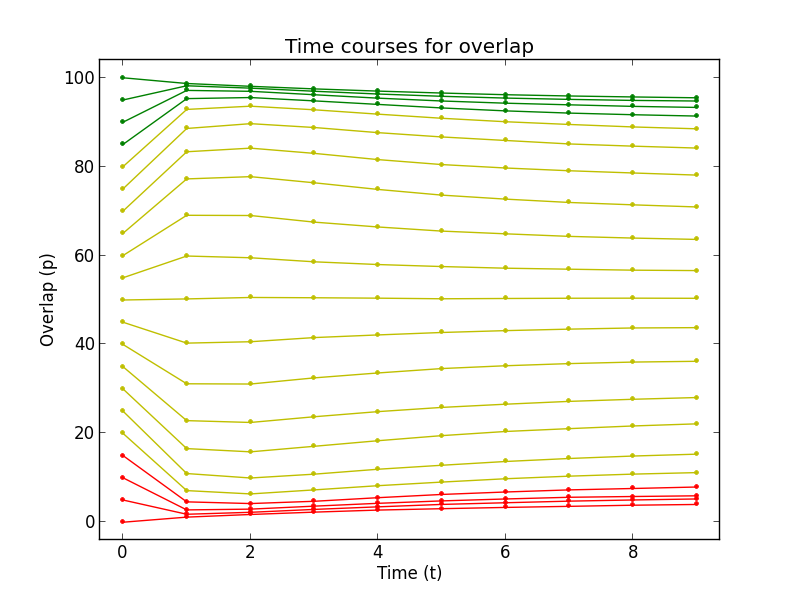
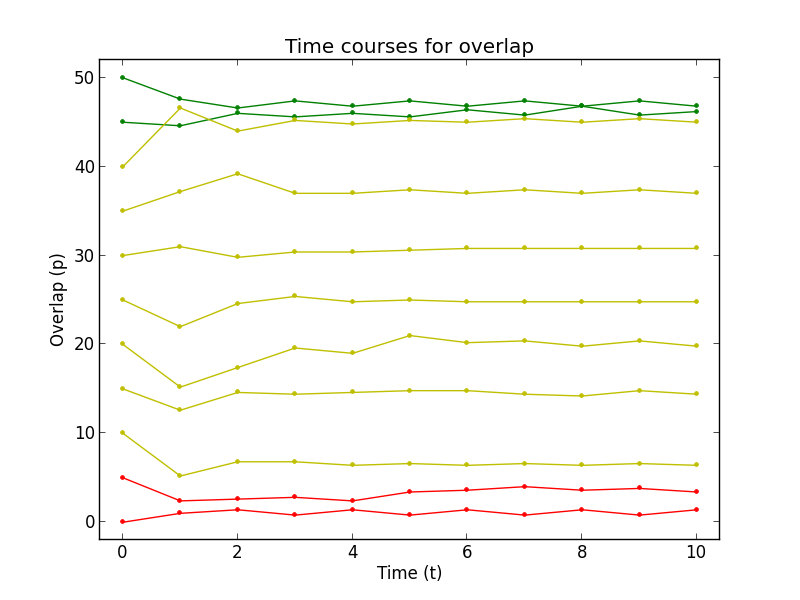
might have gotten part reverse working a little bit, but not great performance

diff --git a/python/network.py b/python/network.py
@@ -5,6 +5,7 @@
 
 import numpy as np
 import random as rand
+import math
 class Hopfield_Network(object):
 	'''
 	Meant to serve as a model of the hopefield associative memory
@@ -34,6 +35,7 @@ class Hopfield_Network(object):
 		self.num_memories += 1
 		#self.sum_outer_products() inefficient
 		self.weights += np.transpose(np.matrix(memory))*np.matrix(memory) - np.identity(self.n)
+
 
 	def remove(self, memory):
 		'''
@@ -115,70 +117,98 @@ class Hopfield_Network(object):
 
 		Tx = [np.sign(i) for i in (self.state_vector*self.weights).tolist()[0]]
 		Tx[Tx == 0] = 1
-		self.state_vector = np.array(Tx)[0]
+		self.state_vector = np.array(Tx)
 
-	def retrieve_partial_reverse(self, probe):
+	def retrieve_partial_reverse(self, probe,t,r):
 		'''
 		Utilizes update scheme described in Morita 1992 "Associative Memory with Nonmonotone Dynamics". The network alternates between traditional update
 		scheme using conventional dynamics (phase I) and an update to reduce probability of reaching spurious attractors interfering with search (phase II)
+		TODO: optimize
 		'''
 		#arbitrary paremeters h and lam(bda) are described in the paper. When internet available, look up constants in py
+		# h = 1+2.0*math.sqrt(r)
 		h = 1.9
+		print "h"+str(h)
 		lam = 2.7
 		self.state_vector = probe
-		print self.state_vector
-		print self.n
+		time_series = []
 		# test = 0
-		for i in range(10):
+		time_series.append(self.state_vector[:])
+		for i in range(t/2):
 
 			#Phase I:
 			# for i in range(self.n):
-			self.update_synch()
-			print self.state_vector
+			# self.update_synch()
+			
+			# print self.state_vector
 			#Phase II:
-			#this is an attempt to interpret tthe explicit version.
+
+			# #this is an attempt to interpret his "explicit" version
+			# #THIS WORKS... Kind of
+			
+			# u = [i for i in (self.state_vector*self.weights).tolist()[0]]
+			# v = [self.phi(i) for i in (self.state_vector*self.weights).tolist()[0]]
+
+			# for j in range(len(v)):
+			# 	v[j]  = v[j]*lam
+
+			# self.state_vector = np.array([np.sign(a_i - b_i) for a_i, b_i in zip(u, v)])
+			# time_series.append(self.state_vector[:])
+
+			#Phase II:
+			#this is an attempt to interpret his "explicit" version iteratively
+			#phase I
+			np.set_printoptions(threshold=np.inf)
+			u = [0]*self.n
+			v = [0]*self.n
 			for i in range(self.n):
-				v_i=0
 				for j in range(self.n):
-					u_j = (np.transpose(self.weights[j])*self.state_vector).sum()
-					# print u_j
-					v_i += (self.weights[i,j]*self.phi(u_j))			
-				u_i = (np.transpose(self.weights[i])*self.state_vector).sum()
-				
-				
-				# test+=self.weights[i,j]*self.state_vector[j]
-				self.state_vector[i]=int(np.sign(u_i - lam*v_i))
-				# if self.state_vector[i]==0:
-				# 	self.state_vector[i]=1
-			print self.state_vector
-		# print test
-		
+					u[i]+=self.weights[i,j]*self.state_vector[j]
+			
+			for i in range(self.n):
+				self.state_vector[i]=np.sign(u[i])
+			# time_series.append(self.state_vector[:])
+			#phase II
+			for i in range(self.n):
+				for j in range(self.n):
+					u[i]+=self.weights[i,j]*self.state_vector[j]
+			for i in range(self.n):
+				for j in range(self.n):
+
+					v[i]+=self.weights[i,j]*self.phi(u[j])
+
+			# print u
+			# print v
+			for i in range(self.n):
+				# print u[i]-lam*v[i]
+				if(not( (float(u[i])/v[i] ) >0 and (float(u[i])/v[i]) < lam)):
+					# print "true"
+					self.state_vector[i]=self.state_vector[i]*-1
+				# else:
+					# print "false"
+				# self.state_vector[i]=np.sign(u[i]-lam*v[i])
+				# print u[i]/v[i]
+
+			#Phase II:
 			#this is an attempt to interpret his "abbreviated" version
-			# for i in range(self.n):
-			# 	# influence = self.weights*(self.state_vector - lam*[self.phi(j) for j in np.transpose(self.weights[i])*self.state_vector])
-				
-			# 	influence = np.transpose(self.weights[i])*self.state_vector
-			# 	# print influence
-			# 	# print influence[1,1]
-			# 	for i in range(self.n):
-			# 		for j in range(self.n):
-			# 			influence[i,j]=self.phi(influence.item((i,j)))
-			# 	x_t_1 = self.weights[i]*(self.state_vector -lam*influence)
-			# 	self.state_vector[i]=int(np.sign(x_t_1.sum()))
-			# 	if self.state_vector[i]==0:
-			# 		# print "uh oh"
-			# 		self.state_vector[i]=1
-			# 	print self.state_vector
-	
+			# temp = np.array((self.mult_state(self.weights,(self.state_vector-[lam*i for i in [self.phi(i) for i in (self.mult_state(self.weights,self.state_vector))]]))))
+			# self.state_vector = np.array([np.sign(i) for i in temp])
+			# time_series.append(self.state_vector[:])
+
+			time_series.append(self.state_vector[:])
+		return time_series
 	#should make static I think
 	def phi(self,u):
 		#arbitrary paremeters h and lam(bda) are described in the paper
 		h = 1.9
 		lam = 2.7
-		
-		if (u<(h*-1)):
-			return -1
-		elif(((-1)*h<=u) and (u<=h)):
+		# print u
+		if(abs(u)>h):
+			return np.sign(u)
+		else:
 			return 0
-		else: #u>h
-			return 1
+
+	def mult_state(self,weights,state):
+		tstate = [[i] for i in state]
+		# print np.shape(tstate)
+		return [i.tolist()[0][0] for i in weights*[[i] for i in state]]

diff --git a/python/simulation.py b/python/simulation.py
@@ -11,33 +11,34 @@ import matplotlib.pyplot as plt
 
 def main():
 	#How many simulations (unique nets) should be run:
-	sims = 20
+	sims = 5
 	#general parameters
-	n=100
-	num_overlap_levels = 20
+	n=50
+	num_overlap_levels = 10
 
 	if(n<num_overlap_levels):
 		print "Be better."
 		exit()
 
-	num_trials=25
-	time_limit = 10
+	num_trials=1
+	time_limit = 20
 	r = .025 #r is the ratio of memories to neurons m:n
 
 	synch=True #if false, use async update scheme.
+	part_reverse=True;
 	tolerance = 0.025 #ratio of bits that can be incorrect allowing the network to be considered correct
 	num_tol=int(tolerance*n)
 	print num_tol
 
-	for r in range(25,275,25):
+	for r in range(150,275,25):
 		r*=0.001
 		#Here we run the simulation sims times
 		tally=[]
-		tally,tally_total,tally_perfect,tally_25,tally_5 = (simulate(n,num_overlap_levels,num_trials,time_limit,r,synch,num_tol))
+		tally,tally_total,tally_perfect,tally_25,tally_5 = (simulate(n,num_overlap_levels,num_trials,time_limit,r,synch,part_reverse,num_tol))
 		tally_total=0
 		tally_perfect=0
 		for i in range(sims-1):
-			new,tot,perf,t25,t5 = (simulate(n,num_overlap_levels,num_trials,time_limit,r,synch,num_tol))
+			new,tot,perf,t25,t5 = (simulate(n,num_overlap_levels,num_trials,time_limit,r,synch,part_reverse,num_tol))
 
 			tally_total+=tot
 			tally_perfect+=perf
@@ -60,7 +61,7 @@ def main():
 		print "total end states within 0.05 error:"+str(tally_5)+"\n"
 		graph(tally,n,r)
 
-def simulate(n,num_overlap_levels,num_trials,time_limit,r,synch,tolerance):
+def simulate(n,num_overlap_levels,num_trials,time_limit,r,synch,part_reverse,tolerance):
 	'''
 	For one simulation, a single nxn network is generated. Each index of the o_levels list contains itself a list of length num_trials. Each index of this list contains a 
 	single "trial", which is a list corresponding to the overlap values over time when the network is exposed to a randomized permutation of the target memory, with the appropriate
@@ -80,6 +81,7 @@ def simulate(n,num_overlap_levels,num_trials,time_limit,r,synch,tolerance):
 	for i in range(m):
 		memories.append(generate_memory(n))
 		net.store(memories[i])
+	print compare(memories[0],memories[1])
 
 	#now, we run trials on this network.
 	tally_perfect=0
@@ -93,13 +95,16 @@ def simulate(n,num_overlap_levels,num_trials,time_limit,r,synch,tolerance):
 			#run trial
 			mem = memories[random.choice(range(m))]
 			# print compare(permute(mem,p),mem)
-			if(synch):
-				states = net.retrieve_synch(permute(mem,p),time_limit)
+			if(part_reverse):
+				states = net.retrieve_partial_reverse(permute(mem,p),time_limit,r)
 			else:
-				states = net.retrieve_asynch(permute(mem,p),time_limit)
+				if(synch):
+					states = net.retrieve_synch(permute(mem,p),time_limit)
+				else:
+					states = net.retrieve_asynch(permute(mem,p),time_limit)
 			#compare to original memory at each timestep
 			overlaps = []
-			for t in range(time_limit):
+			for t in range(len(states)):
 				comparison = compare(states[t], mem)
 				overlaps.append(comparison)
 				if(n-comparison==0):
